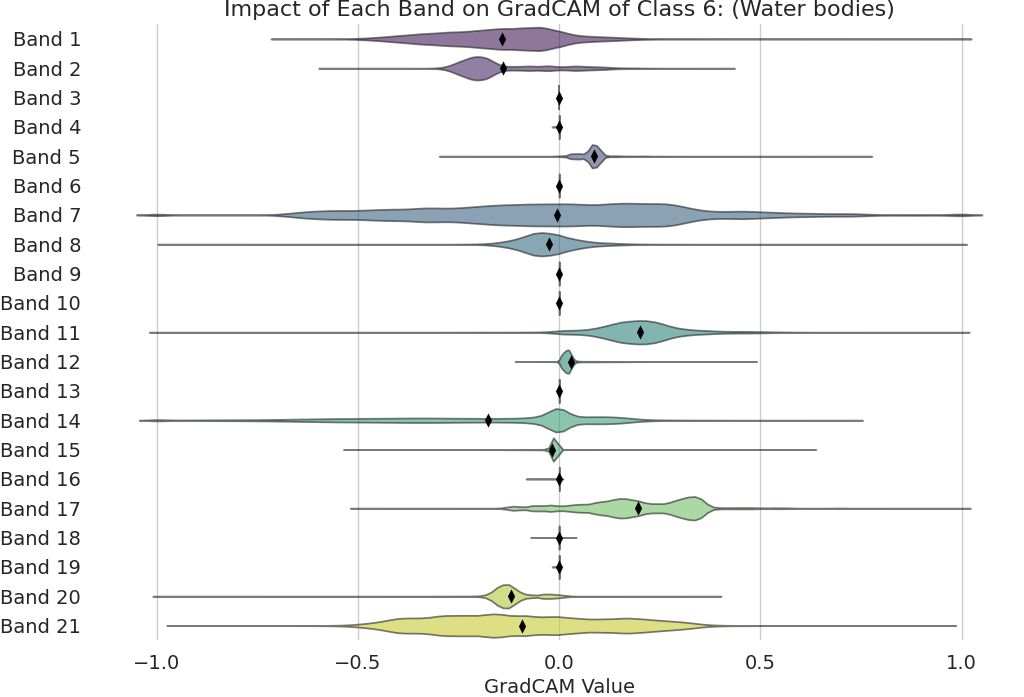
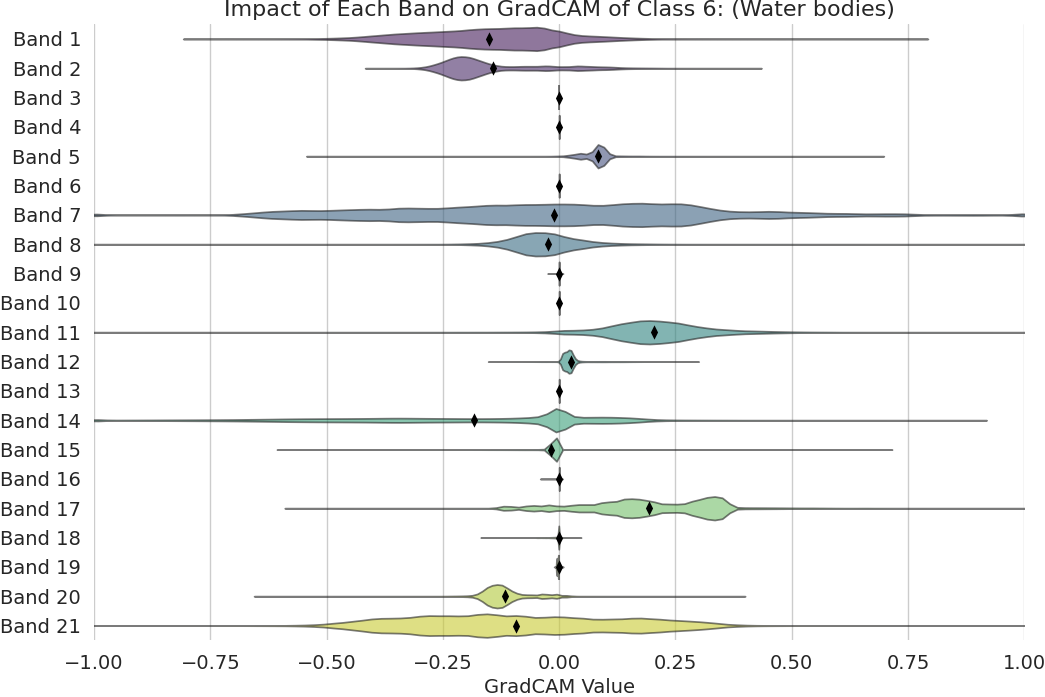
minor changes

diff --git a/Segmentation_Interpret.py b/Segmentation_Interpret.py
@@ -379,7 +379,7 @@ print("Model loaded successfully")
 # Load the dataset
 test_dir = '/data/data/Fusion/Val'
 test_ds = SegmentationDatasetFusion(data_path=test_dir)
-test_dataloader = DataLoader(test_ds, batch_size=1, shuffle=False)
+test_dataloader = DataLoader(test_ds, batch_size=1, shuffle=True)
 
 # Create output directory for saving results
 output_dir = 'gradcam_results'
@@ -421,13 +421,13 @@ def find_last_conv_layer(model):
 target_layer_name, target_layer = find_last_conv_layer(model)
 print(f"Using target layer: {target_layer_name}")
 
-CLASS = 7  # Change this to the desired class for analysis
+CLASS = 6  # Change this to the desired class for analysis
 class_name = index_to_class[CLASS]  # Get the class name for the plot title
 
 # Process the first 100 images in the dataloader that contain the specified class in the ground truth
 valid_image_count = 0
 for idx, sample in enumerate(test_dataloader):
-    if valid_image_count >= 100:
+    if valid_image_count >= 501:
         break
     image_test, mask = sample['image'], sample['mask']
     unique_classes_gt = torch.unique(mask).cpu().numpy()
@@ -436,7 +436,7 @@ for idx, sample in enumerate(test_dataloader):
         continue
 
     valid_image_count += 1
-    print(f"Processing valid image {valid_image_count}/100 (dataset index {idx + 1})")
+    print(f"Processing valid image {valid_image_count}/500 (dataset index {idx + 1})")
 
     for band in range(21):
         # Create a copy of the image with only the current band retained
@@ -492,6 +492,7 @@ sns.pointplot(
 # Improve the legend and customize the plot
 ax.set_yticklabels([f'Band {i+1}' for i in range(21)], fontsize=14)
 ax.set_ylabel('', fontsize=14)
+ax.set_xlim(-1, 1)  # Set the limits of the x-axis here
 ax.xaxis.set_tick_params(labelsize=14)
 ax.yaxis.set_tick_params(labelsize=14)
 ax.spines['top'].set_visible(False)
